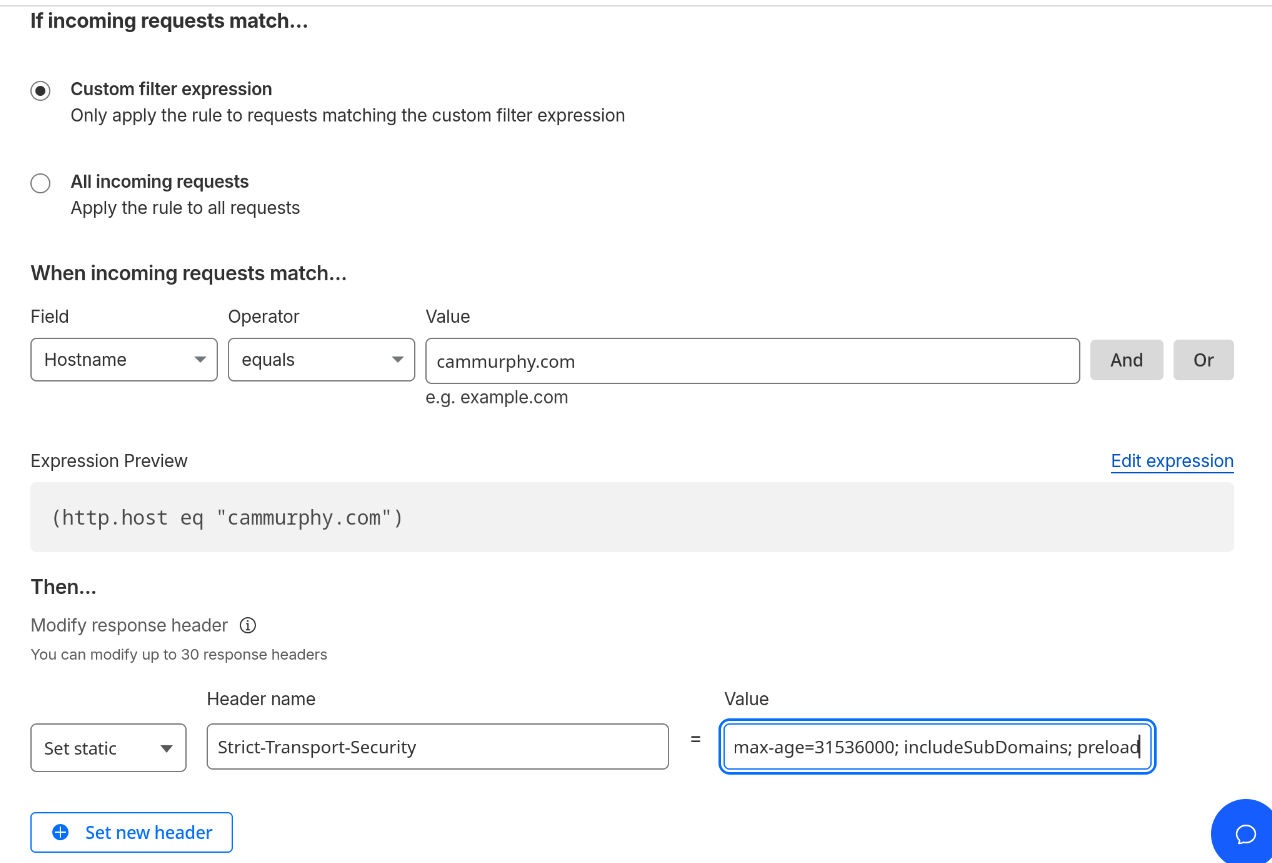
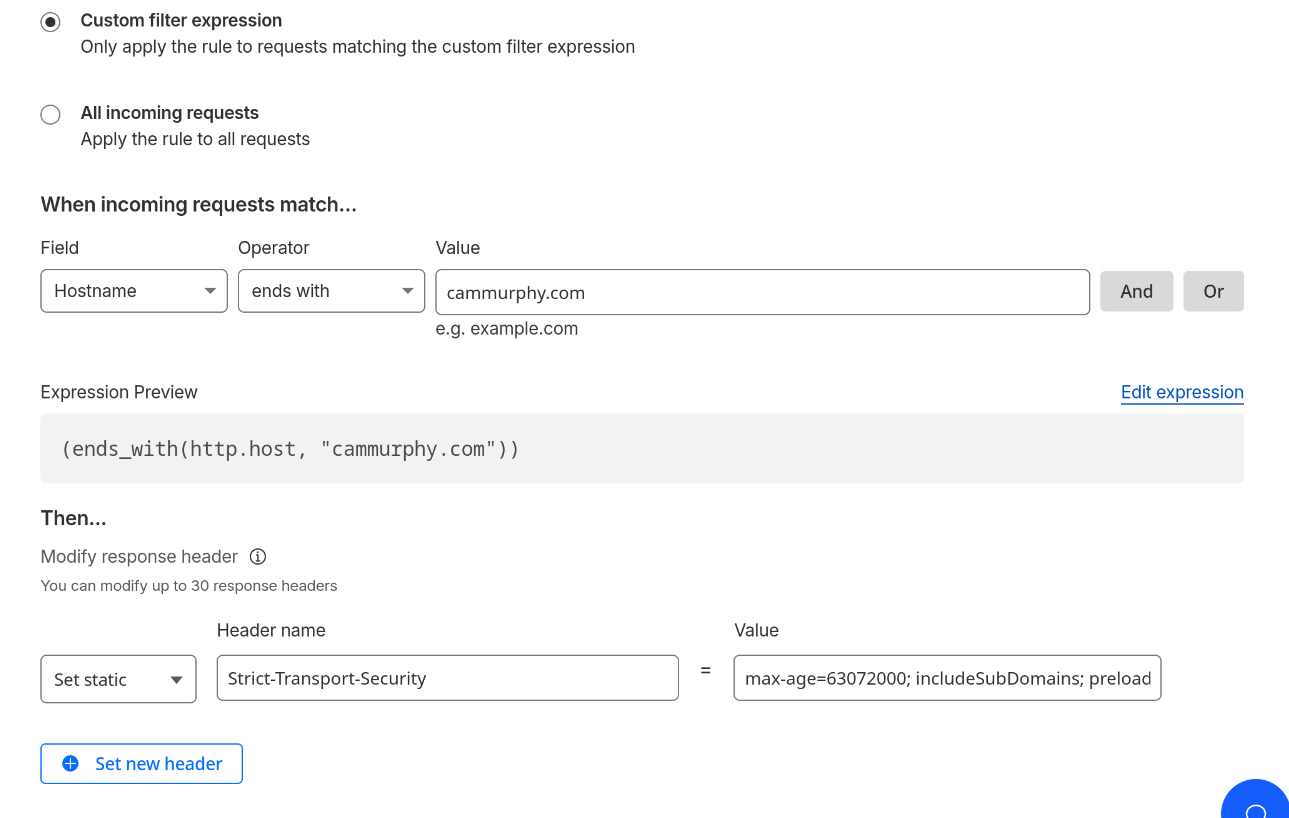
some small stylistic twists

diff --git a/docs/_posts/2025-10-30-hsts-headers.md b/docs/_posts/2025-10-30-hsts-headers.md
@@ -12,7 +12,7 @@ After I wrote this post:
 ) stands for HTTP Strict-Transport-Security. When the browser initially requests a web page, the server will include in its response a header with the instructions "Hey browser remember this domain, and always load it over https and auto-upgrade http to https".
 
 ## Adding HSTS Headers to *.cammurphy.com
-I opted to add HSTS headers via a transform rule in Cloudflare.
+I chose to add HSTS headers via a transform rule in Cloudflare.
 
 ![Image]({{site.baseurl}}/assets/images/HSTS_Subdomains_Preload.png)
 
@@ -22,7 +22,7 @@ I opted to add HSTS headers via a transform rule in Cloudflare.
 Max-Age: The unit of measurement is seconds. I set this to the recommended two years.
 
 **Not Required**  
-IncludeSubdomains: I opted to add this, because I wanted www.cammurphy, blog.cammurphy, and etc to have the same security.  
+IncludeSubdomains: I added this, because I wanted www.cammurphy, blog.cammurphy, and etc to have the same security.  
   
 preload: With adding this option you allow the domain to be added to the preload list. The preload list is what browsers will check if it should load the site without even having to get the initial response from the server. You can submit your domain to be added to the list [here](https://hstspreload.org/). 
 
